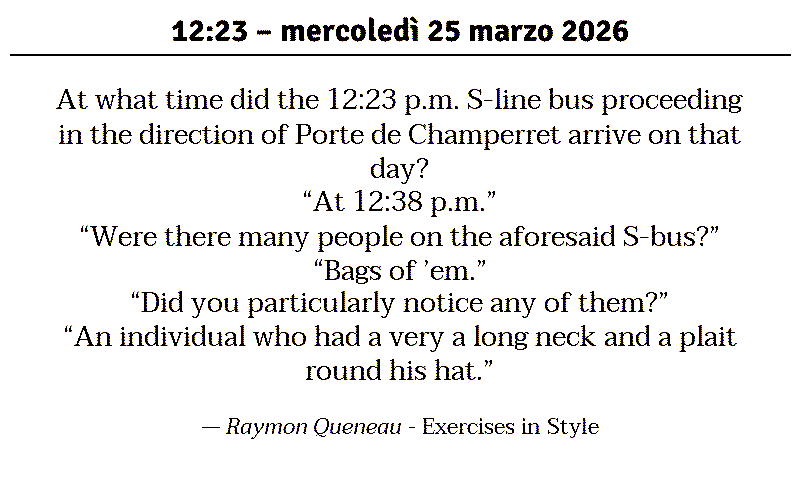
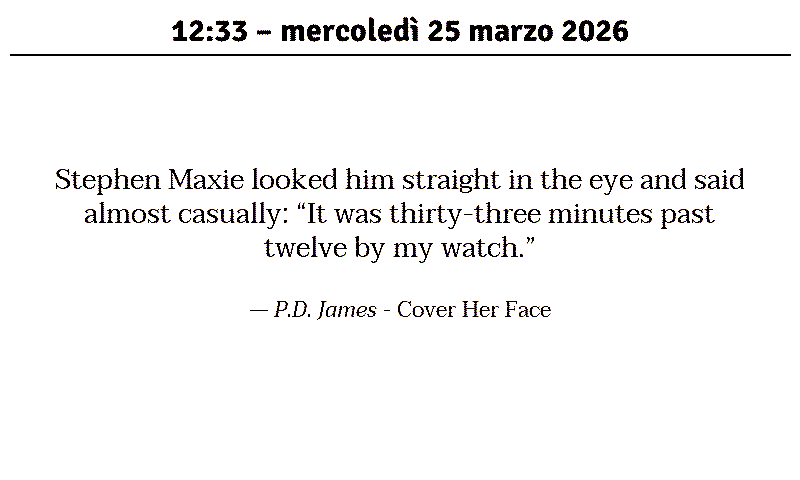
Screenshots: 3+4 grid layout, better litclock + slowmovie shots
- README: 3 columns top row, 4 columns bottom row (more compact)
- LitClock: P.D. James "Cover Her Face" (cleaner quote)
- SlowMovie: "The Moralist" (classic Italian cinema scene)

diff --git a/README.md b/README.md
@@ -15,20 +15,15 @@
 
 <table>
 <tr>
-<td align="center"><img src="docs/screenshots/litclock.png" width="380" /><br /><b>LitClock</b></td>
-<td align="center"><img src="docs/screenshots/slowmovie.png" width="380" /><br /><b>SlowMovie</b></td>
+<td align="center"><img src="docs/screenshots/litclock.png" width="260" /><br /><b>LitClock</b></td>
+<td align="center"><img src="docs/screenshots/slowmovie.png" width="260" /><br /><b>SlowMovie</b></td>
+<td align="center"><img src="docs/screenshots/wikipedia.png" width="260" /><br /><b>Wikipedia</b></td>
 </tr>
 <tr>
-<td align="center"><img src="docs/screenshots/wikipedia.png" width="380" /><br /><b>Wikipedia</b></td>
-<td align="center"><img src="docs/screenshots/weather.png" width="380" /><br /><b>Weather</b></td>
-</tr>
-<tr>
-<td align="center"><img src="docs/screenshots/museo.png" width="380" /><br /><b>Museo</b></td>
-<td align="center"><img src="docs/screenshots/koan.png" width="380" /><br /><b>Koan</b></td>
-</tr>
-<tr>
-<td align="center"><img src="docs/screenshots/cucina.png" width="380" /><br /><b>Cucina</b></td>
-<td></td>
+<td align="center"><img src="docs/screenshots/weather.png" width="195" /><br /><b>Weather</b></td>
+<td align="center"><img src="docs/screenshots/museo.png" width="195" /><br /><b>Museo</b></td>
+<td align="center"><img src="docs/screenshots/koan.png" width="195" /><br /><b>Koan</b></td>
+<td align="center"><img src="docs/screenshots/cucina.png" width="195" /><br /><b>Cucina</b></td>
 </tr>
 </table>
 
